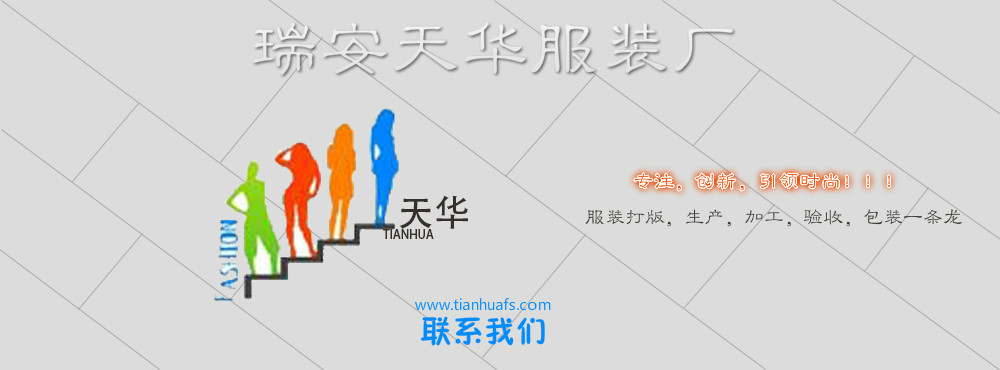
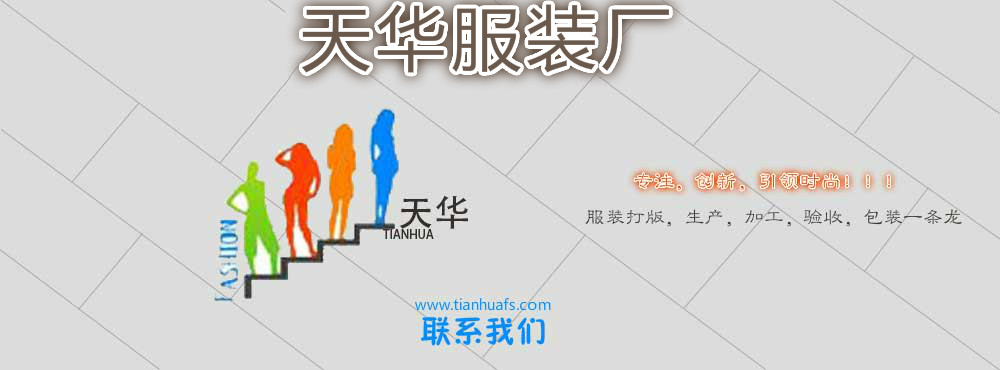
修改logo 和 一些图片

diff --git a/header.php b/header.php
@@ -2,7 +2,7 @@
 <html>
 <head lang="zh-cn">
     <meta charset="UTF-8">
-    <title>天华服饰</title>
+    <title>天华服装厂</title>
     <link rel="stylesheet" type="text/css"  href="http://cdn.bootcss.com/bootstrap/3.3.4/css/bootstrap.min.css">
     <link rel="stylesheet" type="text/css" href="css/base.css">
     <link rel="stylesheet" type="text/css" href="css/pay.css">
